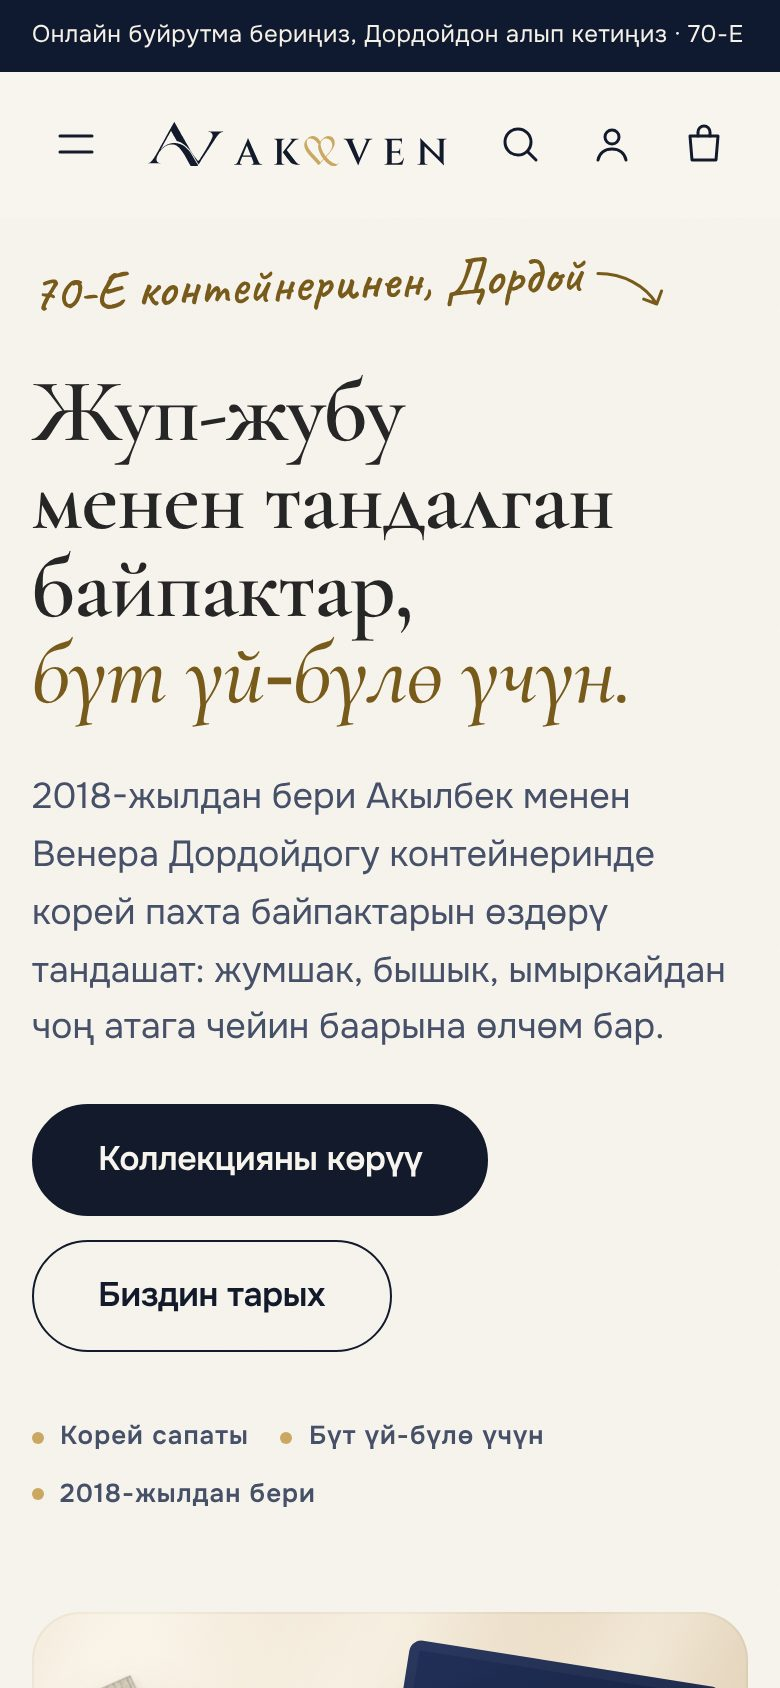
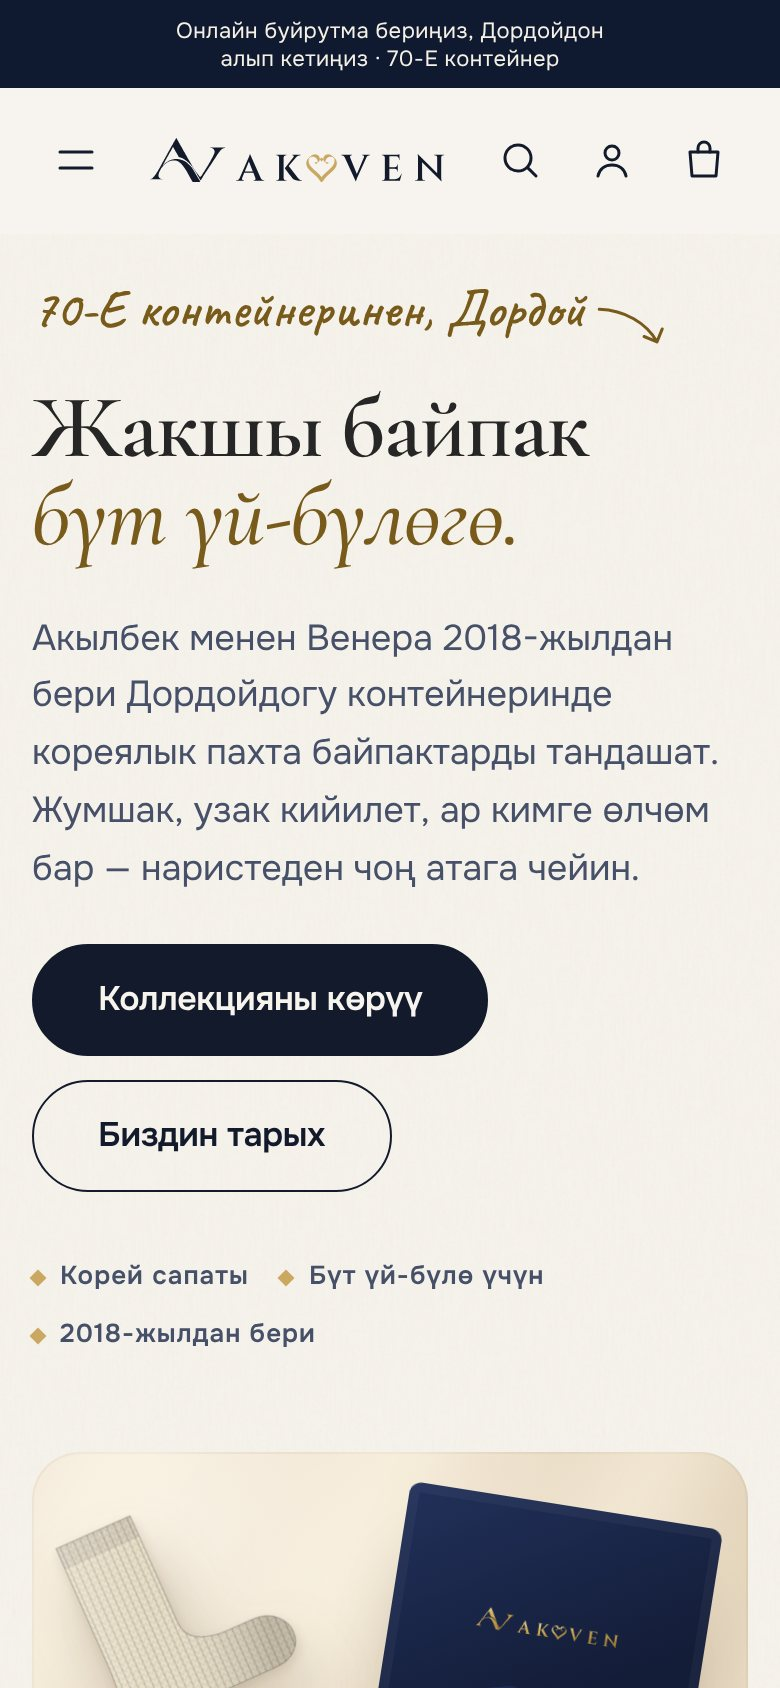
README for the shop as it is now, with new pictures
- What is new since the last README: the wholesale case built from the real shelves,
  the Our story page, the admin's order search, customer history, dashboard story,
  hand-over desk, AI connection test and history of changes, prices in som or
  roubles, three months of demo shop life, and the Kyrgyz and Korean craft in the
  design (with how it stays smooth on a phone).
- The numbers measured today: 41 migrations (23 schema, 18 demo data), 112
  endpoints, about 1,900 texts per language, 271 backend tests at 96% line
  coverage, 208 frontend tests, 28 browser steps, and the WebKit and Firefox run.
- "Not built" no longer lists email, which the shop sends; it lists the Telegram
  bot as planned.
- New pictures: the home page, a shelf, the price chat, a phone in Kyrgyz, the case
  builder, the dashboard and the logo.
- The chat's "AK&VEN assistant" label sits on its own line instead of running into
  the first word of the message.

diff --git a/frontend/src/styles/identity.css b/frontend/src/styles/identity.css
@@ -1483,3 +1483,5 @@ img[data-stage="bojagi-celadon"] { background-color: #dfe7de; background-image: 
 .av-still__light { mix-blend-mode: normal; opacity: 0.45; }
 .av-hero6__promises li::before { border-radius: 0; transform: rotate(45deg); }
 @media (prefers-reduced-motion: reduce) { .av-still__runner, .av-still__dojang { animation: none !important; } }
+/* The chat's "AK&VEN assistant" label sits on its own line above the message (it ran into the first word). */
+.av-bubble .av-bubble__who { display: flex; align-items: center; margin-bottom: 4px; }

diff --git a/README.md b/README.md
@@ -37,7 +37,11 @@ This shop keeps those habits online instead of replacing them with a fixed price
   Bishkek** (a taxi the family calls, or the father's own car above an amount the owners set); or **cargo** to the
   regions, Kazakhstan, Uzbekistan and Russia, where the customer pays the carrier on receipt. Fee and days are shown
   before paying.
-- **Shops buy by the case.** Build a case, send a request, get a reference; the family answers from an inbox.
+- **Shops buy by the case.** They pick the exact socks from the real shelves, colour by colour and size by size, a
+  dozen at a time, with the stock beside each; the list goes into a request the family answers from an inbox.
+- **It looks like where it comes from.** Kyrgyz shyrdak felt and ram's horns (кочкор мүйүз), Korean hanji paper,
+  bojagi patchwork and a red dojang seal run through the whole site, because the socks are knitted in Korea and chosen
+  in Kyrgyzstan.
 
 ## The idea: talking is not deciding
 
@@ -94,8 +98,12 @@ rule-based assistant (which over-promised six times by design) or for the model.
   delivery details, "collected / on its way / with the carrier", and a cancellation with its refund. They are written in
   the same transaction as the order (an outbox), sent through any SMTP server, retried when it is down, and readable
   in the admin; without a mail server they are kept there and the admin says so.
-- **Wholesale and company gifts:** an open case of packs, how a case is made, *Build a case*, and a request (no account
-  needed) that the shop keeps and answers with a reference.
+- **Wholesale and company gifts:** an open case of packs, how a case is made, and *Build a case* from the real
+  shelves: search or browse a shelf, open a sock, and choose dozens of each colour and size with today's stock beside
+  it (a warning when the case asks for more than there is); the case shows the price step it reaches and an estimate,
+  and its exact list (one line per colour and size, with the code) goes into a request that needs no account.
+- **Our story:** the family's two names, a letter from the stall in their own words, the years at Dordoi, the journey
+  of a pair from the Korean mills to container 70-E, a day at the stall from 8:00 to 16:00, and the bazaar scene.
 - **Find us:** whether the stall is open now in Bishkek time, the week's hours, the way inside the bazaar, Google Maps
   and 2GIS. The footer shows the stall's door with an open or closed sign.
 - **English, Russian and Kyrgyz**; prices in **US dollars, som or roubles**; light and dark; phone, tablet and laptop;
@@ -117,19 +125,23 @@ rule-based assistant (which over-promised six times by design) or for the model.
 
 **For the shop team** (the administration, in English, Russian and Kyrgyz)
 
-- **Everyone in the team:** products with colours, sizes, pictures per colour, stock and stock on the way; sections and
-  cuts; orders and the **hand-over screen** (code typed or scanned, plus the end of the phone number); negotiations with
-  proposed and allowed side by side; the dashboard; review moderation; the **wholesale inbox** with one-tap reply in the
-  customer's own messenger.
+- **Everyone in the team:** products (newest first, with pictures and colours) with sizes, pictures per colour, stock
+  and stock on the way; sections and cuts; orders found by number, name, phone or email and by how they travel; the
+  **hand-over desk** (code typed or scanned, plus the end of the phone number, and the pickup orders waiting to be
+  packed); negotiations with proposed and allowed side by side; a dashboard that tells the story of the period
+  (returning customers, pairs per order, how orders travel, sales by shelf, the busiest days, the best customers);
+  review moderation; the **wholesale inbox** with one-tap reply in the customer's own messenger.
 - **Owners:** the limit and cost of each sock, the price ladder and minimum order, som and rouble rates, **delivery
-  areas**, customers, contacts, the stall and its hours, the size chart, and the orders as a spreadsheet.
-- **Super admin:** the team's accounts, which assistant answers the chat (with a test box and the live comparison),
-  and the audit log of every change.
+  areas**, customers with their orders and spending, contacts, the stall and its hours, the size chart, the emails sent
+  to customers, and the orders as a spreadsheet. Prices can be read in dollars, som or roubles.
+- **Super admin:** the team's accounts, which assistant answers the chat (with a test box, a connection test that says
+  in plain words why the AI is not answering, and the live comparison), and the history of every change, by part of
+  the shop and by who made it, with the values before and after.
 
 ![The dashboard](docs/design/readme-admin.jpg)
 
-**Not built, on purpose:** a real payment provider, e-mail and SMS notifications, taxes. The language model is
-optional: without a key the built-in rules answer.
+**Not built, on purpose:** a real payment provider (the demo wallet is simulated), SMS, taxes, and the Telegram bot
+([planned](docs/telegram-bot-plan.md)). The language model is optional: without a key the built-in rules answer.
 
 ## Run it in five minutes
 
@@ -140,7 +152,7 @@ docker compose up --build
 ```
 
 Then open **http://localhost:8081**. The first build takes a few minutes; the backend is ready when its log says
-`Successfully applied 35 migrations`.
+`Successfully applied 41 migrations`.
 
 | Demo account | Email | Password | Can do |
 |---|---|---|---|
@@ -149,7 +161,9 @@ Then open **http://localhost:8081**. The first build takes a few minutes; the ba
 | Staff | `staff@akven.test` | `changeme-staff` | Products, stock, orders, reviews and wholesale requests, but not prices |
 | Customer | Sign in → Create an account | | Shop, ask for a price, check out, follow orders |
 
-Docker Compose starts the shop **in demo mode** (`SPRING_PROFILES_ACTIVE=demo`): the demo catalog, these accounts, and a
+Docker Compose starts the shop **in demo mode** (`SPRING_PROFILES_ACTIVE=demo`): the demo catalog, three months of
+imagined shop life (25 customers from Bishkek, Osh, Almaty, Tashkent and Moscow, 150 orders in every state and way of
+delivery, price conversations, reviews, wholesale requests and emails), these accounts, and a
 **simulated wallet** that moves no money and says so at checkout. Without demo mode the shop is safe by default: no demo
 data, the demo accounts switched off, and no payments taken until a real provider is connected (future work). The demo
 accounts are also switched off in demo mode once a real super admin is set in `.env`, unless `DEMO_ACCOUNTS=on`.
@@ -182,9 +196,9 @@ flowchart LR
 
 | Layer | Technology |
 |---|---|
-| Client | React 18, TypeScript, Vite. One installable PWA for customers and the team, role-gated routes. About 1,600 texts per language in English, Russian and Kyrgyz, with typed keys |
-| API | Spring Boot 3.5, Java 17, 107 endpoints in 21 feature packages. JWT with four roles (customer, staff, owner, super admin) and a role hierarchy; method security on the services; one error format (RFC 7807); OpenAPI at `/swagger-ui/index.html` (demo mode; `API_DOCS=true` elsewhere) |
-| Data | PostgreSQL 16 with pgvector. 35 Flyway versions: 19 schema migrations, 16 demo-data migrations (demo profile only). Check constraints repeat the rules that must never break |
+| Client | React 18, TypeScript, Vite. One installable PWA for customers and the team, role-gated routes. About 1,900 texts per language in English, Russian and Kyrgyz, with typed keys |
+| API | Spring Boot 3.5, Java 17, 112 endpoints in 21 feature packages. JWT with four roles (customer, staff, owner, super admin) and a role hierarchy; method security on the services; one error format (RFC 7807); OpenAPI at `/swagger-ui/index.html` (demo mode; `API_DOCS=true` elsewhere) |
+| Data | PostgreSQL 16 with pgvector. 41 Flyway versions: 23 schema migrations, 18 demo-data migrations (demo profile only). Check constraints repeat the rules that must never break |
 | Assistant | A `Negotiator` interface: rule-based, and a language model over any OpenAI-compatible API (Gemini by default), with fallback to the rules and a run-time switch |
 | Delivery | Docker Compose (database, backend, nginx). CI on GitHub Actions (six jobs) and on the ELTE GitLab |
 
@@ -198,17 +212,22 @@ the thesis:
 - **Every change by the team is audited** in the same transaction, with the state before and after.
 - **Each customer sees only their own** family, saved socks, details and orders: the account comes from the token, never
   from the request.
-- **The look comes from the stall:** kraft tags, the family's handwriting, socks on a washing line, fabrics, paper and
-  container 70-E. All 1,300 product pictures are drawn by a script from the same sock shapes as the interface.
+- **The look comes from the stall and its two countries:** kraft tags, the family's handwriting, socks on a washing
+  line and container 70-E; Kyrgyz shyrdak felt and ram's horns; Korean hanji paper, bojagi patchwork and the red
+  dojang seal. All 1,300 product pictures are drawn by a script from the same sock shapes as the interface, on a
+  transparent ground, so each stands on a crafted backdrop chosen by the shop (and a cut-out photo would too).
+- **Smooth on a phone:** textures are small pictures drawn once, cards move only what the graphics card can move, and
+  endless animations rest while they are off screen; measured with the CPU slowed to phone speed.
 
 ## Quality and tests
 
 | Check | Command | Result |
 |---|---|---|
-| Backend, in-memory database | `cd backend && mvn verify` | 257 tests, **97% line coverage**; the build fails below 80% |
+| Backend, in-memory database | `cd backend && mvn verify` | 271 tests, **96% line coverage**; the build fails below 80% |
 | Backend on real PostgreSQL | see [`docs/development.md`](docs/development.md) | 11 tests: migrations, constraints, the last-pair and double-payment races over real HTTP |
-| Frontend | `cd frontend && npm test && npm run build` | 204 tests: checkout sends no price or card, every text exists in Russian and Kyrgyz, WCAG AA contrast of every colour pair |
+| Frontend | `cd frontend && npm test && npm run build` | 208 tests: checkout sends no price or card, every text exists in Russian and Kyrgyz, WCAG AA contrast of every colour pair |
 | In a real browser | `cd frontend && npm run e2e` | 28 steps: the owner's, the customer's (with and without an account) and the super admin's work in three languages, with accessibility rules on every page |
+| Other browsers | `cd frontend && npm run e2e:browsers` (in CI) | The customer's path in Safari's engine (WebKit) and Firefox, on a phone and a laptop |
 
 What the tests demonstrate, among others:
 
